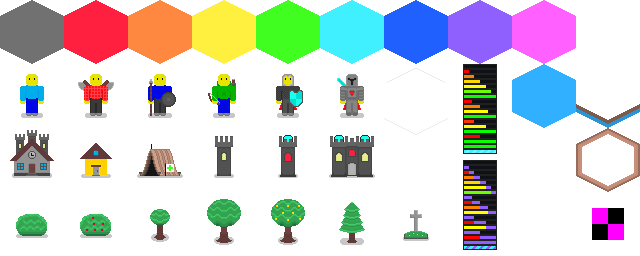
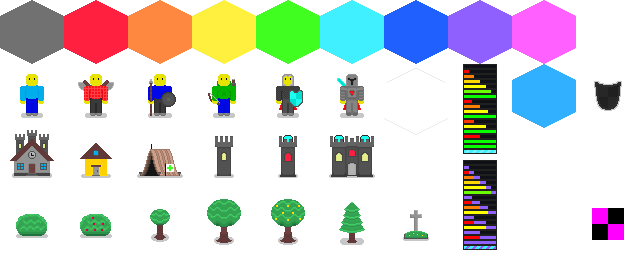
added defense zone visualization

Changed region(s): [[0.875, 0.3125, 1.0, 0.75]]

diff --git a/src/game/game.cpp b/src/game/game.cpp
@@ -523,10 +523,8 @@ static void _attach_action(
 			size_t idx = game->map.newSelectionIndex();
 
 			// create tile pulse for auto skills
-			if (skill->format == Skill::Self) {
+			if (skill->format == Skill::Self)
 				game->map.pulse = game->last();
-				game->resetPulse();
-			};
 
 			// generate tile selection
 			Spread spread = skill->select(game->state, game->map.atref(game->last()), idx);
@@ -750,6 +748,8 @@ void Game::buildMenu(const Build& build) {
 		Values::build_names[build.type],
 		build, build.hp != build.max_hp()
 	);
+	if (logic::build_guard[build.type] >= Troop::Farmer)
+		map.shield = build.pos;
 };
 /// Constructs a plant UI panel.
 void Game::plantMenu(const Plant& plant) {
@@ -782,6 +782,8 @@ void Game::closeMenu() {
 
 /// Updates menu state after a click.
 void Game::updateMenu() {
+	map.shield = {};
+
 	// open hex menu
 	if (_select)
 		hexMenu(*map.at(*_select));
@@ -802,11 +804,6 @@ sf::Vector2i Game::last() const {
 /// Whether local player is currently making a move.
 bool Game::move() const {
 	return _move;
-};
-
-/// Resets pulse animation.
-void Game::resetPulse() const {
-	_pulse_anim->restart();
 };
 
 /// Returns hex coordinates at a mouse position.

diff --git a/src/game/array.cpp b/src/game/array.cpp
@@ -1,5 +1,24 @@
 #include "game/array.hpp"
 
+/// Returns distance between 2 points.
+int HexArray::distance(sf::Vector2i a, sf::Vector2i b) {
+	// get point b relative to point a
+	sf::Vector2i r = b - a;
+	r.y = labs(r.y);
+
+	// get horizontal bounds of descend cone
+	int dxn = -((r.y + (a.y & 1)) >> 1);
+	int dxp = (r.y + (a.y & 1 ^ 1)) >> 1;
+
+	// get horizontal step count
+	int dx = 0;
+	if (r.x < dxn) dx = dxn - r.x;
+	if (r.x > dxp) dx = r.x - dxp;
+
+	// return sum of horizontal and vertical steps
+	return dx + r.y;
+};
+
 /// Returns neighbor position of a tile.
 sf::Vector2i HexArray::neighbor(sf::Vector2i pos, nbi_t nbi) {
 	// look-up tables

diff --git a/src/game/draw/hex_draw.cpp b/src/game/draw/hex_draw.cpp
@@ -180,4 +180,18 @@ namespace Draw {
 		};
 		target.forward(&assets::tilemap);
 	};
+
+	/// Draws building defensive shield at a tile.
+	void Tile::drawShield(ui::RenderBuffer& target, float t) const {
+		// get returning sine easing
+		float prog = (1.f - cosf(2 * M_PI * t)) * 0.5f;
+
+		// get current opacity
+		sf::Color mask = sf::Color::White;
+		mask.a = ui::lerpi(96, 240, prog);
+
+		// draw shield
+		target.quad({ origin, size }, Values::shield, mask);
+		target.forward(&assets::tilemap);
+	};
 };

diff --git a/src/game/logic/lists/skill_list_generic.cpp b/src/game/logic/lists/skill_list_generic.cpp
@@ -62,7 +62,10 @@ namespace SkillList {
 				},
 				.pass = [=](const Spread::Tile& now) {
 					// check if tile is not guarded by a building
-					return skillf::checkAround(state.map, now.pos, 2, [=](const Spread::Tile& nb) {
+					return skillf::checkAround(
+						state.map, now.pos, (size_t)logic::defense_range,
+						[=](const Spread::Tile& nb)
+					{
 						// ignore if same region or no building
 						if (nb.hex->region() == tile.hex->region() || !nb.hex->build)
 							return false;

diff --git a/include/game/draw/hex_draw.hpp b/include/game/draw/hex_draw.hpp
@@ -66,5 +66,11 @@ namespace Draw {
 		/// @param target Target render buffer.
 		/// @param t Pulse progression.
 		void drawPulse(ui::RenderBuffer& target, float t) const;
+
+		/// Draws building defensive shield at a tile.
+		/// 
+		/// @param target Target render buffer.
+		/// @param t Opacity animation progression.
+		void drawShield(ui::RenderBuffer& target, float t) const;
 	};
 };

diff --git a/src/game/map.cpp b/src/game/map.cpp
@@ -330,6 +330,10 @@ void Map::draw(ui::RenderBuffer& target, float t) const {
 	while (auto tile = drawer.next()) {
 		if (tile->hex->elevated()) continue;
 		tile->drawContents(target);
+		
+		// draw shield if close enough
+		if (shield && distance(*shield, tile->coords) <= logic::defense_range)
+			tile->drawShield(target, t);
 	};
 
 	// draw tile shading

diff --git a/include/game/array.hpp b/include/game/array.hpp
@@ -25,6 +25,12 @@ public:
 		UpperLeft  = 5, /// Neighbor on upper left.
 	};
 
+	/// Returns distance between 2 points.
+	/// 
+	/// @param a Point A.
+	/// @param b Point B.
+	static int distance(sf::Vector2i a, sf::Vector2i b);
+
 	/// Returns neighbor position of a tile.
 	///
 	/// @param pos Tile position.

diff --git a/src/game/values/hex_values.cpp b/src/game/values/hex_values.cpp
@@ -13,6 +13,8 @@ namespace Values {
 		{ 6 * Values::tileTex.x, 1 * Values::tileTex.y },
 		Values::tileTex + Values::tileLevel(Values::tileTex)
 	};
+	/// Defense shield.
+	const sf::IntRect shield = coords(9, 1);
 
 	/// Water side color.
 	const sf::Color waterSide = sf::Color(0, 157, 251);

diff --git a/include/game/logic/build_logic.hpp b/include/game/logic/build_logic.hpp
@@ -37,6 +37,9 @@ namespace logic {
 	/// Beacon stun skill range.
 	extern const size_t stun_range;
 
+	/// Building defense range.
+	extern const int defense_range;
+
 	/// Building destruction bonus.
 	/// @param id Building type.
 	extern const int build_bonus[Build::Count];

diff --git a/include/game/map.hpp b/include/game/map.hpp
@@ -83,6 +83,10 @@ public:
 	Regions regions;
 	/// Tile pulse annotation.
 	std::optional<sf::Vector2i> pulse;
+	/// Defensive building position.
+	///
+	/// Used to display shield icons around the position.
+	std::optional<sf::Vector2i> shield;
 
 	/// Selects a region.
 	/// 

diff --git a/src/game/logic/build_logic.cpp b/src/game/logic/build_logic.cpp
@@ -37,6 +37,9 @@ namespace logic {
 	/// Beacon stun skill range.
 	const size_t stun_range = 3;
 
+	/// Building defense range.
+	const int defense_range = 2;
+
 	/// Building destruction bonus.
 	const int build_bonus[Build::Count] = { 30, 5, 8, 6, 16, 43, 8 };
 

diff --git a/include/game/game.hpp b/include/game/game.hpp
@@ -134,9 +134,6 @@ public:
 	/// Whether local player is currently making a move.
 	bool move() const;
 
-	/// Resets pulse animation.
-	void resetPulse() const;
-
 	/// Returns hex coordinates at a mouse position.
 	///
 	/// @param mouse Mouse position.
